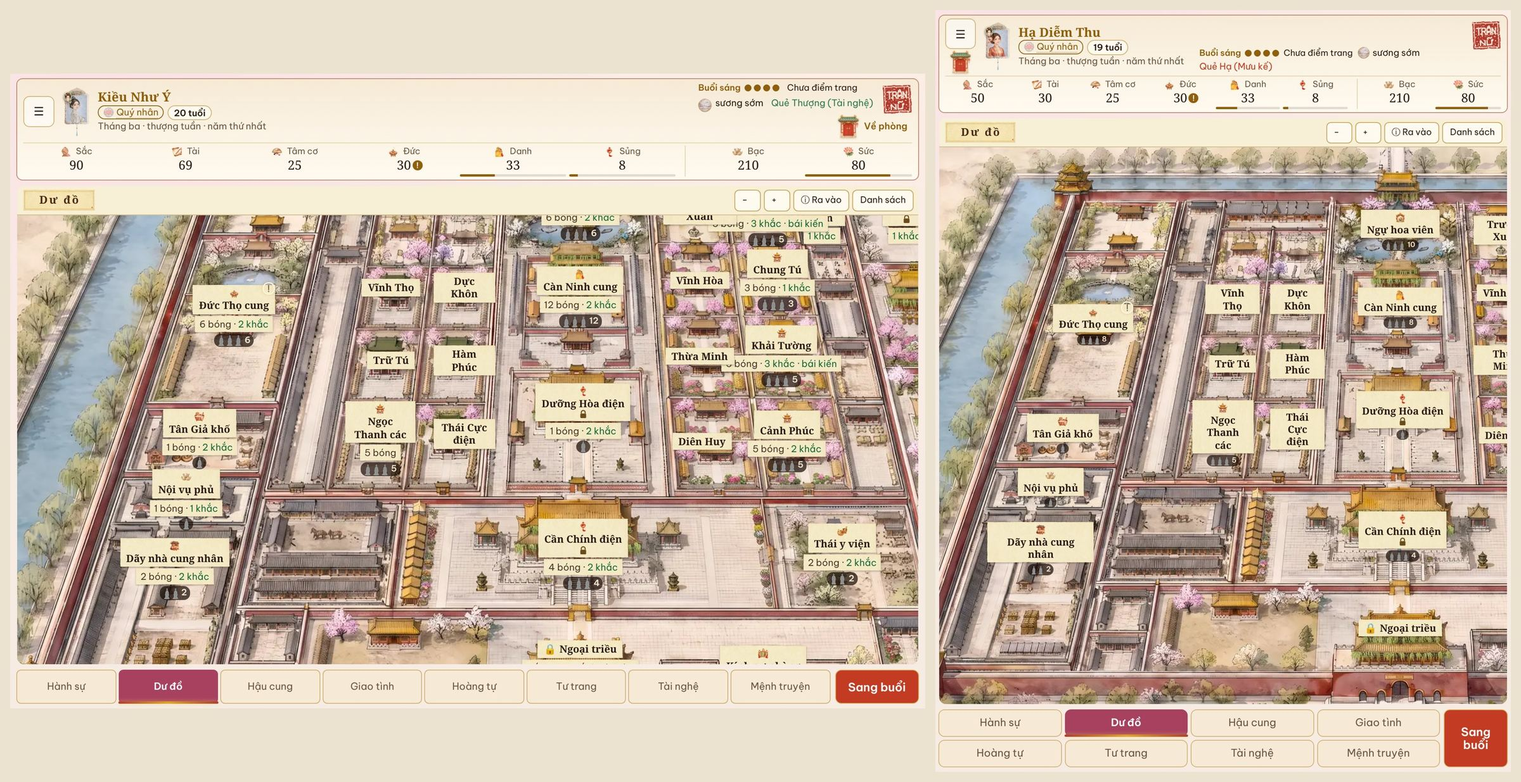
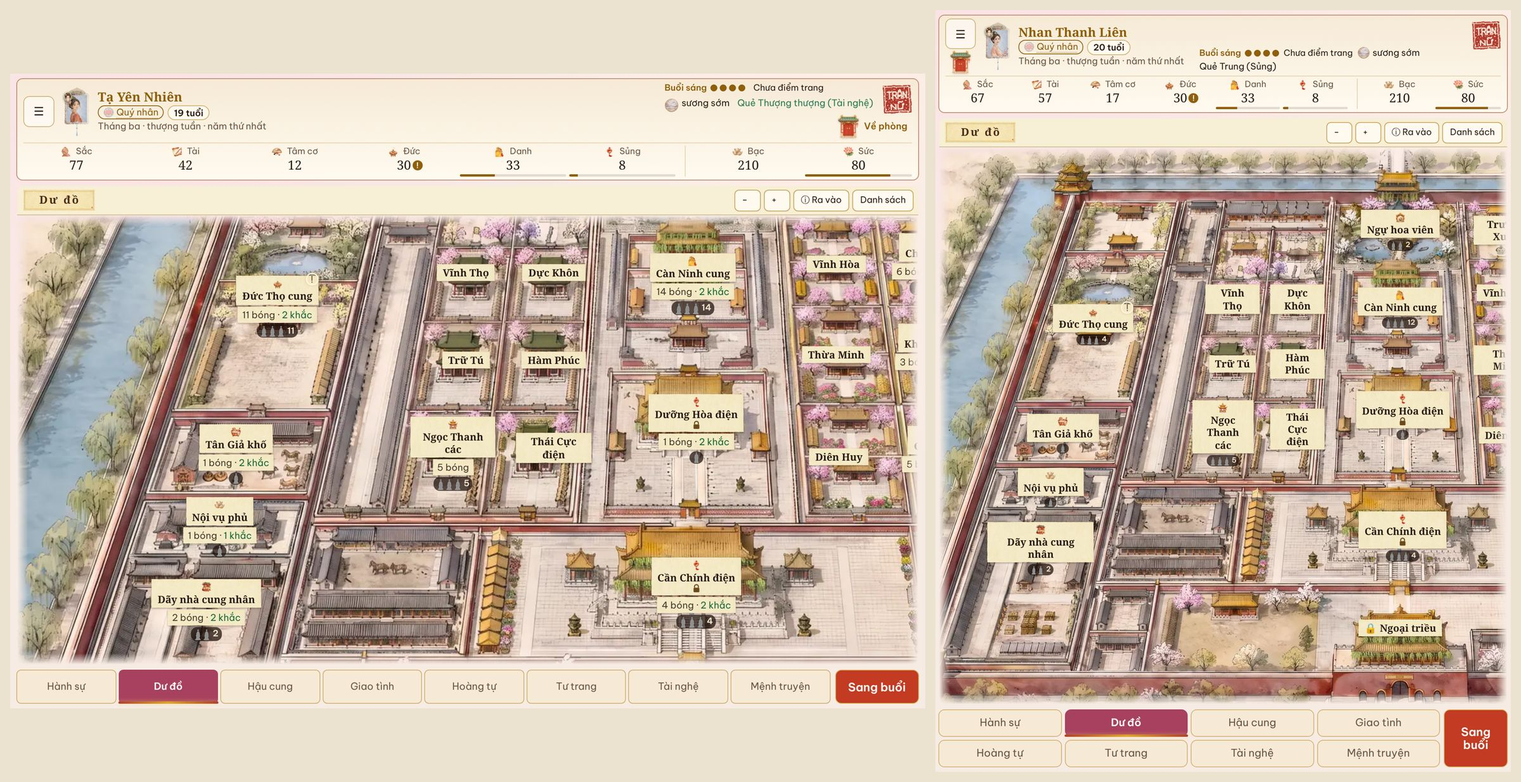
map-frame-c: kit request (slip label, cartouche, tools band, group-overlap fit, edge fade) + updated sample sheet
Claude-Session: https://claude.ai/code/session_011xDdVS2U5Q68ctTWkApNxe

diff --git a/dev/handover/reports/map-frame-c/mock-harness.js b/dev/handover/reports/map-frame-c/mock-harness.js
@@ -1,0 +1,45 @@
+/* map-labels.js — LUẬT SỬA CẢ NHÓM scan for Dư đồ place labels (owner 16/11 "Chữ nhỏ quá, mờ nữa").
+   For every viewport x map zoom: every .mspot .mlab (place name chip) is measured: font px, text/chip contrast, chip opacity, box, whether it is
+   clipped by the map viewport, overlaps a neighbour label, or is cut by its own box (scrollWidth > clientWidth).
+   usage: node dev/test/map-labels.js <dev/index.html> <OUT> [WxH,WxH,..]   → <OUT>/table.json, <OUT>/<vp>-z<z>.jpg (map only), prints a table
+   Pictures come from the CDN through Playwright (cached in .ahcache/img). */
+const {chromium}=require('playwright');const fs=require('fs');const path=require('path');
+const WT=path.resolve(__dirname,'../..')+'/';
+const HTML0='/home/user/cung-tuong-mong/index.html',OUT=process.env.OUT;const HTML=path.resolve(HTML0);
+const CDN='https://ctm-img.victoria-tntt.workers.dev/';const CACHE=WT+'.ahcache/img/';
+fs.mkdirSync(OUT,{recursive:true});fs.mkdirSync(CACHE,{recursive:true});
+
+const CSSF=process.env.CSS||'';const TAG=process.env.TAG||'base';const MODE=process.env.MODE||'shot';
+(async()=>{const b=await chromium.launch({proxy:process.env.HTTPS_PROXY?{server:process.env.HTTPS_PROXY}:undefined});
+ for(const vp of ['1180x820','755x1000']){const [W,H]=vp.split('x').map(Number);
+  const ctx=await b.newContext({viewport:{width:W,height:H},deviceScaleFactor:2,ignoreHTTPSErrors:true,reducedMotion:'reduce'});
+  await ctx.route('**/*',async r=>{const u=r.request().url();
+   if(u.startsWith('http://ctm.test/')){const p=decodeURIComponent(new URL(u).pathname).slice(1);
+    if(p===''||p==='index.html')return r.fulfill({status:200,body:fs.readFileSync(HTML),contentType:'text/html; charset=utf-8'});
+    if(p.startsWith('mockassets/'))return r.fulfill({status:200,body:fs.readFileSync(process.env.ASSETS+'/'+p.slice(11))});
+    const f=WT+p;if(fs.existsSync(f)&&fs.statSync(f).isFile())return r.fulfill({status:200,body:fs.readFileSync(f)});return r.fulfill({status:404,body:''})}
+   if(u.startsWith(CDN)){const p=new URL(u).pathname.slice(1),c=CACHE+p.replace(/\//g,'__'),ct=p.endsWith('.json')?'application/json':p.endsWith('.webp')?'image/webp':'application/octet-stream';
+    if(!p.endsWith('.json')&&fs.existsSync(c))return r.fulfill({status:200,body:fs.readFileSync(c),contentType:ct});
+    for(let i=0;i<4;i++){try{const res=await r.fetch();const body=await res.body();if(res.status()===200&&!p.endsWith('.json'))fs.writeFileSync(c,body);return r.fulfill({status:res.status(),body,contentType:ct})}catch(e){}}
+    return r.abort()}
+   if(/fonts\.(googleapis|gstatic)/.test(u))return r.continue();return r.abort()});
+  const p=await ctx.newPage();p.setDefaultTimeout(120000);
+  await p.goto('http://ctm.test/index.html',{waitUntil:'domcontentloaded'});await p.waitForTimeout(4000);
+  await p.evaluate(()=>{SLOT=3;window.__forceOrigin='tt';document.getElementById('title').hidden=true;try{store.set(NL_KEY,null)}catch(e){}start()});await p.waitForTimeout(3000);
+  await p.evaluate(()=>{Q.length=0;for(const e of [...document.body.querySelectorAll('*')]){const cs=getComputedStyle(e);if(cs.position==='fixed'&&/Luân hồi|Tiếp/.test(e.textContent||'')&&!e.closest('#stage'))e.remove()}const k=document.getElementById('kroul');if(k)k.remove();const m=document.getElementById('modal');if(m){m.classList.remove('on');m.hidden=true}const d=document.getElementById('dawn');if(d)d.hidden=true});
+  await p.evaluate(()=>{Q.length=0;window.__mapList=0;tab='go';document.querySelectorAll('.modal,#modal').forEach(m=>{try{m.hidden=true}catch(e){}});render()});await p.waitForTimeout(2500);
+  if(CSSF){await p.addStyleTag({content:fs.readFileSync(CSSF,'utf8')});}
+  if(process.env.JS){await p.evaluate(fs.readFileSync(process.env.JS,'utf8'))}
+  await p.waitForTimeout(2500);
+
+  if(MODE==='scan'){for(const z of [0,.5,1.5,2.5]){await p.evaluate(z=>{window.__mapZ=z?(window.__mapFit||1)+z:0;render()},z);await p.waitForTimeout(1200);if(CSSF){await p.addStyleTag({content:fs.readFileSync(CSSF,'utf8')});await p.waitForTimeout(600)}
+   const r=await p.evaluate(()=>{const sc=document.querySelector('.mapsc'),sr=sc.getBoundingClientRect();
+    const G=[...sc.querySelectorAll('.mspot')].map(s=>{const parts=[...s.querySelectorAll('.mlab,.mmeta,.msil')].map(e=>e.getBoundingClientRect()).filter(r=>r.width>0);if(!parts.length)return null;const L=Math.min(...parts.map(r=>r.left)),T=Math.min(...parts.map(r=>r.top)),R=Math.max(...parts.map(r=>r.right)),B=Math.max(...parts.map(r=>r.bottom));return {n:(s.querySelector('.mlab')||s).textContent.trim().replace(/\s+/g,' ').slice(0,18),L,T,R,B}}).filter(Boolean);
+    const vis=G.filter(g=>g.R>sr.left&&g.L<sr.right&&g.B>sr.top&&g.T<sr.bottom);let ov=[],cl=[];
+    for(let i=0;i<vis.length;i++){const a=vis[i];if(a.L<sr.left-1||a.R>sr.right+1||a.T<sr.top-1||a.B>sr.bottom+1)cl.push(a.n);for(let j=i+1;j<vis.length;j++){const b=vis[j];if(Math.min(a.R,b.R)-Math.max(a.L,b.L)>1&&Math.min(a.B,b.B)-Math.max(a.T,b.T)>1)ov.push(a.n+' x '+b.n)}}
+    return {fit:window.__mapFit,n:vis.length,ov,cl}});
+   console.log(vp,'z+'+z,JSON.stringify(r))}}
+  if(MODE==='dom'){console.log(await p.evaluate(()=>{const s=document.querySelector('.mspot');const t=document.querySelector('.maptools');return JSON.stringify({mspot:s&&s.outerHTML.slice(0,700),tools:t&&t.outerHTML.slice(0,900),mapv:document.querySelector('.mapv')&&document.querySelector('.mapv').parentElement.className})}));}
+  await p.screenshot({path:`${OUT}/${TAG}-${vp}.png`});
+  await ctx.close()}
+ await b.close()})();

diff --git a/dev/handover/reports/map-frame-c/mock-c.css b/dev/handover/reports/map-frame-c/mock-c.css
@@ -1,0 +1,15 @@
+/* ===== MOCK C: họa đồ chú thiêm ===== */
+.panel:has(>.kleather) .kleather{padding:0!important;background:none!important;clip-path:none!important;border:0!important;box-shadow:none!important;filter:none!important;-webkit-mask:none!important;mask:none!important;display:flex!important;flex-direction:column}
+.kleather::before,.kleather::after,.kleather>.kl-tone,.kleather>.kl-roll,.kleather>[class*=stitch],.kleather>[class*=roll]{display:none!important}
+/* tools band: inside the window, ABOVE the map, so it can never cover a label */
+html .game .kleather>.maptools{position:static!important;inset:auto!important;flex:none;order:-1;display:flex!important;align-items:center;justify-content:space-between;height:38px;padding:0 6px 0 8px;background:#f7efd6;border-bottom:1px solid #b79a5b99;z-index:5}
+html .game .kleather>.maptools::before{content:"Dư đồ";display:inline-flex;align-items:center;justify-content:center;width:92px;height:26px;background:url(/mockassets/cartouche.webp) 0 0/100% 100% no-repeat;font:600 14px/1 var(--display);letter-spacing:.14em;color:#4a2a14;text-indent:.14em;padding-bottom:1px}
+html .game .kleather>.maptools>span:last-child{position:static!important;display:flex;gap:4px}
+html .game .kleather>.maptools .mz{min-height:28px;padding:0 9px;font-size:.72rem;background:#fffaf0;border:1px solid #c9a35a;border-radius:6px;box-shadow:none}
+.kleather>.mapsc{border-radius:0!important;box-shadow:none!important;flex:1;height:auto!important;outline:1px solid #b79a5bcc;outline-offset:-1px}
+/* yellow slips: đề thiêm */
+.mspot .mlab{background:none!important;border:solid transparent!important;border-width:3px 7px!important;border-image:url(/mockassets/slip.webp) 20 22 fill/3px 7px stretch!important;border-radius:0!important;box-shadow:none!important;padding:0 1px!important;filter:drop-shadow(0 1px 1px #3a2a1e66);color:#2a1a12}
+.mspot .mlab i{background:none!important}
+.mspot .mmeta{background:none!important;border:solid transparent!important;border-width:3px 6px!important;border-image:url(/mockassets/slip.webp) 20 22 fill/3px 6px stretch!important;border-radius:0!important;padding:0!important;filter:drop-shadow(0 1px 1px #3a2a1e55);color:#4a3a2a}
+/* clipped labels at the pan edge fade out instead of being cut */
+.kleather>.mapsc{-webkit-mask-image:linear-gradient(#0000,#000 14px,#000 calc(100% - 14px),#0000),linear-gradient(90deg,#0000,#000 14px,#000 calc(100% - 14px),#0000);-webkit-mask-composite:source-in;mask-image:linear-gradient(#0000,#000 14px,#000 calc(100% - 14px),#0000),linear-gradient(90deg,#0000,#000 14px,#000 calc(100% - 14px),#0000);mask-composite:intersect}

diff --git a/dev/handover/reports/map-frame-c/mock-c-fit.js b/dev/handover/reports/map-frame-c/mock-c-fit.js
@@ -1,0 +1,1 @@
+(function(){const src=mapFit.toString().replace('[...w.querySelectorAll(".mspot .mlab")].map(l=>l.getBoundingClientRect()).filter(r=>r.width>0)','[...w.querySelectorAll(".mspot")].map(s=>{const p=[...s.querySelectorAll(".mlab,.mmeta,.msil")].map(e=>e.getBoundingClientRect()).filter(r=>r.width>0);if(!p.length)return{width:0};const L=Math.min(...p.map(r=>r.left)),T=Math.min(...p.map(r=>r.top)),R=Math.max(...p.map(r=>r.right)),B=Math.max(...p.map(r=>r.bottom));return{left:L,right:R,top:T,bottom:B,width:R-L}}).filter(r=>r.width>0)').replace('fit+2.5','fit+3.5');window.mapFit=eval('('+src+')');window.__mapZ=0;render();})();

diff --git a/dev/kit/KIT_REQUESTS.md b/dev/kit/KIT_REQUESTS.md
@@ -46,3 +46,24 @@ Needed by: review/cloud-del (jcloud.js, Sổ mây › Ám hiệu page). Waiting 
 1. **Toilette one-page** (≤574 px) on BOTH modes: mirror band on top with her portrait, "Hôm nay" as chips, slots + scrolling bag, sticky buttons (matches every other kg82 page = spread). Reviewer: gain > loss.
 2. **Per-mode modal rules**: kit modals still carry :where(.kv1/.kv2) rules (kpdlg, dawn kpanel, kpsc, kitReward kmtabs/kmbox, kpm-list, kipd2, .art .pcb, toilette, coop timer chip) — breaks KIT §0.0; fold into one rule + dialog rect-compare test.
 Start AFTER design-scale-p2-r1 is live (it owns those files).
+
+## KIT REQUEST — map-frame-c worker (art, Foreman C) 16/11 — Dư đồ "họa đồ chú thiêm" (owner direction C)
+STATUS: SAMPLE sent to owner (sheet `dev/handover/reports/map-frame-c/sheet-map-frame-c.jpg`, review/map-frame-c). Assets below are PAINTED already (Magnific gpt-2-6); they go to the CDN after the owner's OK, then this becomes "KIT READY-for-keeper". Working CSS of the mock: `dev/handover/reports/map-frame-c/mock-c.css` + `mock-c-fit.js` (copy the rules, do not copy the `/mockassets/` URLs).
+Owner 16/11: map picture stays; only the edge changes → no frame, hall names as pale yellow paper slips, small "Dư đồ" cartouche.
+
+**Replaces (one kit look, all sites):** (1) the leather frame of `kitLeather` around the Dư đồ (§34.1b) — becomes frameless; (2) the place label chip `.mspot .mlab` and its row `.mspot .mmeta` (§34.1d "LIGHT PAPER CHIP"); (3) the tools placement `.game.maptab .maptools` (abs overlay → band).
+**Every place the part is used (grep before building):** `.mspot .mlab` / `.mmeta` on the Dư đồ (all halls, locked `.mlock`, `.awalk` grey, `.here` ring, `.empty`); the palace detail map `.kpmv .kpm-spot .mlab` (D30, kitPalaceMap) — same slip; kitBookSpread `double` (leather map over the book area) — frameless too; `.mtile b` (Danh sách tile) and stage title `#sc-t h2` are NOT slips (they stay as they are); festival chip `.maptools .fest` stays hidden under the map as today.
+**Assets (CDN `img/kit/`, webp, lossy q88, painted not code):**
+- `mapslip.webp` 360x84 (9-slice source, alpha, pale cream-yellow xuan paper, hand-cut edge, ~4 KB; palest of 3 painted variants, blended 28 % toward #fffaec). CSS: `border:solid transparent;border-width:3px 7px;border-image:url(mapslip.webp) 20 22 fill/3px 7px stretch;border-radius:0;padding:0 1px;box-shadow:none;filter:drop-shadow(0 1px 1px #3a2a1e66);color:#2a1a12`. Name row keeps 13 px display serif 600 (unchanged size class, same as the current chip, never bigger).
+- `.mmeta` (N bóng · K khắc): the same asset, `border-width:3px 6px`, slice/width `3px 6px`, padding 0, 12 px, ink `#4a3a2a`, drop-shadow `0 1px 1px #3a2a1e55`; remove its own background/border/radius.
+- `mapcartouche.webp` 560x145 (alpha, pale paper plate, thin muted gold inner line, one tiny red seal dot lower-right, ~9 KB). Used as `.maptools::before{content:"Dư đồ"}` (kit keeper: make it a real element if preferred) 92x26 px, background `url(mapcartouche.webp) 0 0/100% 100% no-repeat`, `font:600 14px/1 var(--display);letter-spacing:.14em;text-indent:.14em;color:#4a2a14`. Same size on iPad and Fold; on phone (≤420 px) 80x24 / 13 px.
+- Hairline (no asset): `.mapsc{outline:1px solid #b79a5bcc;outline-offset:-1px;border-radius:0;box-shadow:none}`; band bottom line `1px solid #b79a5b99`.
+**Frame removal (kitLeather on the Dư đồ):** `.kleather{padding:0;background:none;clip-path:none;border:0;box-shadow:none;filter:none;mask:none;display:flex;flex-direction:column}`, hide `::before/::after/.kl-tone` and rolls/stitch. Map full-bleed in its window.
+**Tools band (fixes "tools covered Trường Môn viện" on the Fold, by construction):** `.kleather>.maptools{position:static;order:-1;flex:none;display:flex;align-items:center;justify-content:space-between;height:38px;padding:0 6px 0 8px;background:#f7efd6;border-bottom:1px solid #b79a5b99}`; buttons `−  +  ⓘ Ra vào  Danh sách` stay inside the window, min-height 28 px, `#fffaf0` + 1 px `#c9a35a`, radius 6; `.mapsc{flex:1}` below it (the map loses 38 px of height; the zoom floor re-runs on resize as today).
+**Sizes per device (same CSS, no per-device art):** iPad 1180x820@2 and Fold 755x1000@2 verified on the live page; 844x390 / 390x844 phones: labels 13 px unchanged, so the same fit logic applies (re-run the scan below).
+**FOLD/IPAD FAULTS the foreman saw on the first sample, fixed in the mock (belongs in shared label code, whole group, every zoom):**
+1. OVERLAP: `mapFit` (j38, "no two chips touch") tests only `.mspot .mlab`; the rows `.mmeta` and the silhouettes `.msil` hang below the chip and are NOT tested, so a wide row ("6 bóng · 3 khắc · bái kiến") lands on the next hall's name. This already happens on main (iPad default zoom: 5 group overlaps, e.g. Trường Môn viện×Hàm An, Chung Tú×Vĩnh Hòa). RULE: the box tested for touching is the union of `.mlab + .mmeta + .msil` of each `.mspot`, and the fit cap rises to fit+3.5. Mock result (`mock-c-fit.js`): 0 overlaps at z = fit, +0.5, +1.5, +2.5 on both devices (iPad floor 1.25→1.75, Fold unchanged 1.76).
+2. CLIPPED at the pan edge ('6 bóng · 2 khắc', 'Xuân' cut by the window edge): a pannable map always has labels half past an edge, so the edge itself must hide the cut: `.mapsc{mask-image:linear-gradient(#0000,#000 14px,#000 calc(100% - 14px),#0000),linear-gradient(90deg,#0000,#000 14px,#000 calc(100% - 14px),#0000);mask-composite:intersect}` (14 px fade, painting edge unaffected visually). Labels no longer end in a hard cut.
+**Scan (LUẬT SỬA CẢ NHÓM, run before/after):** `MODE=scan` of `mock-harness.js` (group boxes `.mlab+.mmeta+.msil`, 4 zooms × iPad/Fold): main before = iPad z+0 5 overlaps, others 0; slip + group-fit = 0 everywhere. Extend `dev/test/map-labels.js` to the group box and add 1180x820@2 + 755x1000@2 to its viewports.
+**Reviewer check:** no custom chip: slips come only from the kit part above; contrast ink `#2a1a12` on slip ≥ 10:1; no `%`/odds in wording (VANPHONG: row text unchanged).
+Needed by: owner "cho nó xong cho rồi". Waiting on: owner OK (style) → CDN upload → "KIT READY-for-keeper".
